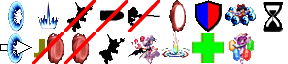
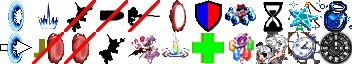
Fixed sprites being blured

diff --git a/modules/AdvancedPracticeMode/Hitboxes.cpp b/modules/AdvancedPracticeMode/Hitboxes.cpp
@@ -29,10 +29,18 @@ namespace Practice
 #define FANTASY_HEAVEN_SPRITE_OFF {224, 0}
 #define PHILOSOPHERS_STONE_OFF    {224, 32}
 #define TIME_SPRITE_OFF           {256, 0}
+#define CLONES_SPRITE_OFF         {256, 32}
+#define HEALING_CHARM_SPRITE_OFF  {288, 0}
+#define STOP_WATCH_SPRITE_OFF     {288, 32}
+#define MAGIC_POTION_SPRITE_OFF   {320, 0}
+#define TIME_STOP_SPRITE_OFF      {320, 32}
+#define _SPRITE_OFF           {352, 0}
+#define _SPRITE_OFF           {352, 32}
 
 	struct MaxAttributes {
 		unsigned short drop;
 		unsigned short star;
+		unsigned short clones;
 	};
 
 	static RectangleShape rectangle;
@@ -303,6 +311,10 @@ namespace Practice
 			displayPlayerBar(DROP_SPRITE_OFF, basePos, barPos, manager.dropInvulTimeLeft, maxAttributes.drop, reverse, DxSokuColor::Red);
 		} else
 			maxAttributes.drop = 0;
+		if (manager.magicPotionTimeLeft)
+			displayPlayerBar(MAGIC_POTION_SPRITE_OFF, basePos, barPos, manager.magicPotionTimeLeft, 360, reverse, DxSokuColor::Blue);
+		if (manager.healingCharmTimeLeft)
+			displayPlayerBar(HEALING_CHARM_SPRITE_OFF, basePos, barPos, manager.healingCharmTimeLeft, 250, reverse, DxSokuColor::Cyan);
 
 		switch (character) {
 		case SokuLib::CHARACTER_PATCHOULI:
@@ -312,6 +324,13 @@ namespace Practice
 		case SokuLib::CHARACTER_REMILIA:
 			if (manager.milleniumVampireTime)
 				displayPlayerBar(MILLENIUM_SPRITE_OFF, basePos, barPos, manager.milleniumVampireTime, 600, reverse, DxSokuColor::Red);
+			break;
+		case SokuLib::CHARACTER_YOUMU:
+			if (manager.youmuCloneTimeLeft) {
+				maxAttributes.clones = max(maxAttributes.clones, manager.youmuCloneTimeLeft);
+				displayPlayerBar(CLONES_SPRITE_OFF, basePos, barPos, manager.youmuCloneTimeLeft, maxAttributes.clones, reverse, DxSokuColor{0xAA, 0xAA, 0xAA, 0xFF});
+			} else
+				maxAttributes.clones = 0;
 			break;
 		case SokuLib::CHARACTER_REIMU:
 			if (manager.fantasyHeavenTimeLeft)

diff --git a/modules/AdvancedPracticeMode/DrawUtils.cpp b/modules/AdvancedPracticeMode/DrawUtils.cpp
@@ -138,7 +138,22 @@ namespace Practice
 		LPDIRECT3DTEXTURE9 *pphandle = SokuLib::textureMgr.allocate(&handle);
 
 		*pphandle = nullptr;
-		if (FAILED(result = D3DXCreateTextureFromFileA(SokuLib::pd3dDev, path, pphandle))) {
+		if (FAILED(result = D3DXCreateTextureFromFileExA(
+			SokuLib::pd3dDev,
+			path,
+			info.Width,
+			info.Height,
+			info.MipLevels,
+			D3DUSAGE_RENDERTARGET,
+			info.Format,
+			D3DPOOL_DEFAULT,
+			D3DX_DEFAULT,
+			D3DX_DEFAULT,
+			0,
+			&info,
+			nullptr,
+			pphandle
+		))) {
 			fprintf(stderr, "D3DXCreateTextureFromFile(%p, \"%s\", %p) failed with code %li.\n", SokuLib::pd3dDev, path, pphandle, result);
 			SokuLib::textureMgr.deallocate(handle);
 			return false;
@@ -280,6 +295,8 @@ namespace Practice
 
 		for (int i = 0; i < 4; i++) {
 			vertexs[i] = this->_vertex[i];
+			vertexs[i].x -= 0.5;
+			vertexs[i].y -= 0.5;
 			vertexs[i].color = this->tint;
 		}
 
@@ -295,6 +312,10 @@ namespace Practice
 			vertexs[2].u = vertexs[1].u = right;
 			vertexs[1].v = vertexs[0].v = top;
 			vertexs[2].v = vertexs[3].v = bottom;
+			vertexs[2].x++;
+			vertexs[1].x++;
+			vertexs[2].y++;
+			vertexs[3].y++;
 		}
 		this->texture.activate();
 		SokuLib::pd3dDev->DrawPrimitiveUP(D3DPT_TRIANGLEFAN, 2, vertexs, sizeof(*vertexs));

diff --git a/modules/AdvancedPracticeMode/Gap.cpp b/modules/AdvancedPracticeMode/Gap.cpp
@@ -116,23 +116,6 @@ namespace Practice
 		font.setIndirect(desc);
 	}
 
-	static void drawSprite(int texid, float x, float y, float cx, float cy) {
-		const struct {
-			float x, y, z;
-			float rhw;
-			unsigned color;
-			float u, v;
-		} vertices[] = {
-			{x, y, 0.0f, 1.0f, 0xffffffff, 0.0f, 0.0f},
-			{x + cx, y, 0.0f, 1.0f, 0xffffffff, 1.0f, 0.0f},
-			{x + cx, y + cy, 0.0f, 1.0f, 0xffffffff, 1.0f, 1.0f},
-			{x, y + cy, 0.0f, 1.0f, 0xffffffff, 0.0f, 1.0f},
-		};
-
-		SokuLib::textureMgr.setTexture(texid, 0);
-		SokuLib::pd3dDev->DrawPrimitiveUP(D3DPT_TRIANGLEFAN, 2, vertices, sizeof(*vertices));
-	}
-
 	void showGap(int val, int x, float alpha)
 	{
 		int text;
